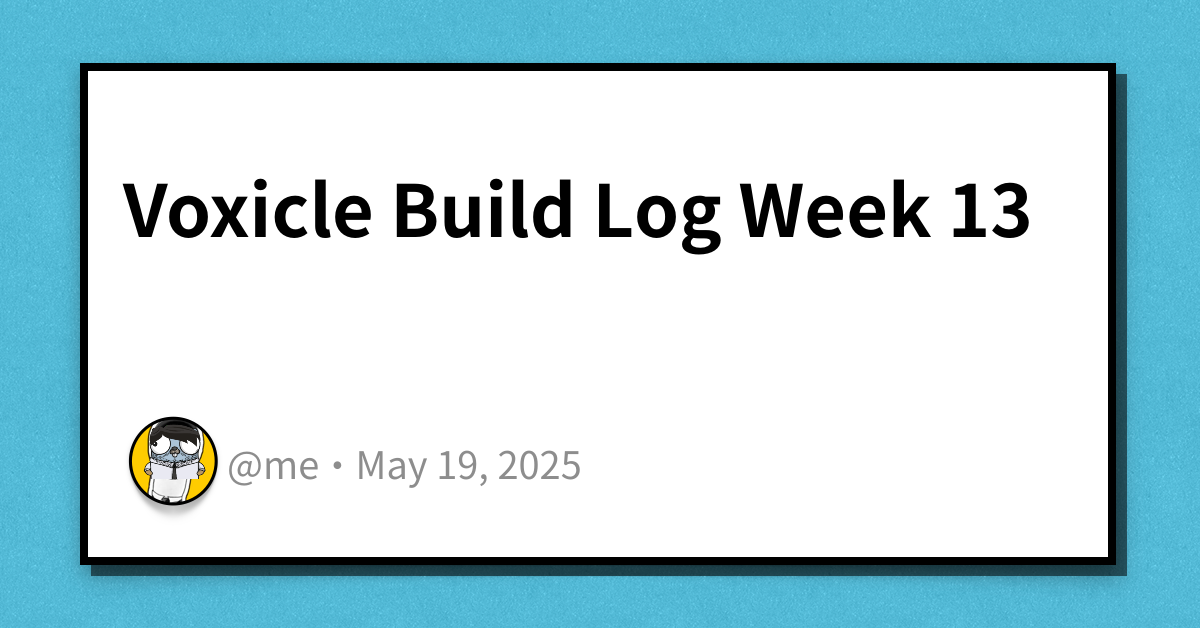
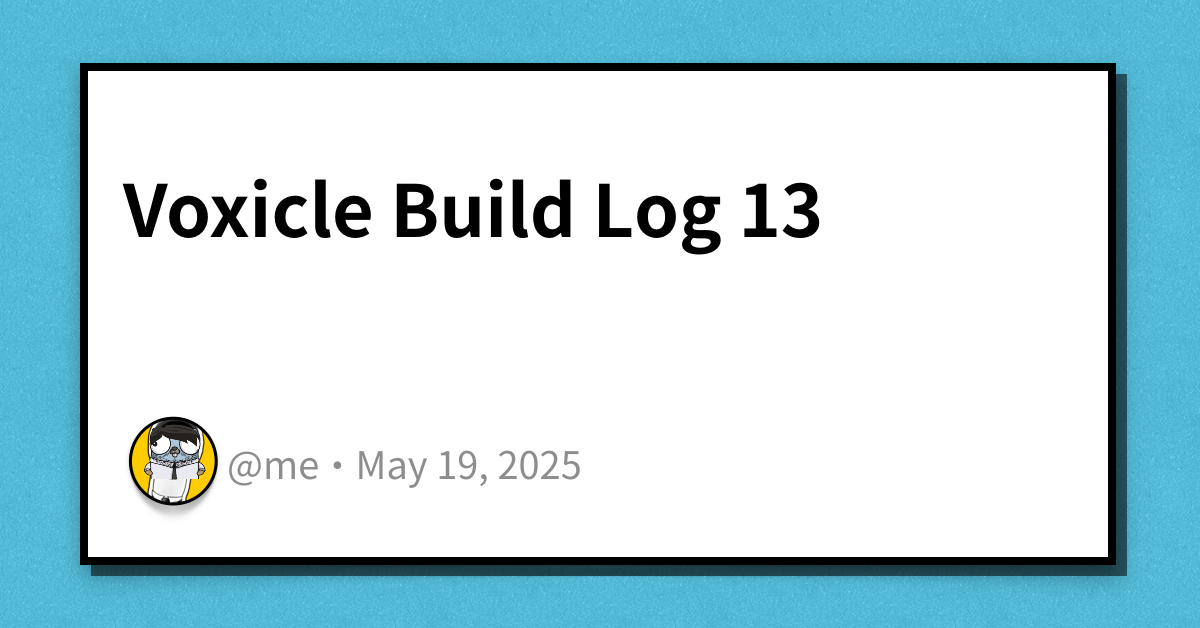
voxicle: week 13

Changed region(s): [[0.6167, 0.2723, 0.8633, 0.3933]]

diff --git a/content/posts/2025-05-19-voxicle-build-log-week-13/index.md b/content/posts/2025-05-19-voxicle-build-log-week-13/index.md
@@ -1,5 +1,5 @@
 ---
-title: Voxicle Build Log Week 13
+title: Voxicle Build Log 13
 date: 2025-05-19
 canonicalURL: https://haseebmajid.dev/posts/2025-05-19-voxicle-build-log-week-13
 tags:
@@ -13,11 +13,14 @@ cover:
   image: images/cover.png
 ---
 
-## ⏮ Last Weeks Objectives
+I will stop making these weekly I think and produce them when there is actual stuff to share, as not make them
+stale and boring. Some times they may end up weekly, depending on how much progress I am making.
 
-- Better error modals (fixed)
-- Start working on public page
-- Multi tenant sub domains
+## ⏮ Previous Build Log Objectives
+
+- ✅ Better error modals (fixed)
+- ✅ Start working on public page
+- ✅ Multi tenant sub domains
   - i.e. org1.voxicle.app
 
 ## 🛠 What I Worked On
@@ -82,6 +85,11 @@ but then also vote for it anonymously or if you are logged in the vote counts as
 Part of the public page is allowing the app to handle subdomains i.e. `org1.voxicle.app/public/feedback` to show
 the public feedback page.
 
+## Refactored Schema
+
+Remove organization_id and replaced with slug as this is already unique and means we have to do fewer looks up to the DB.
+Involved a long migration script and updating tests and some code as well.
+
 ## ✅ Wins
 
 - Error modal fixed
@@ -89,11 +97,16 @@ the public feedback page.
 
 ## ⚠ Challenges
 
+- Not understanding why `hx-swap-oob` wouldn't work with `HX-Retarget`.
+
 ## 💡 What I Learned
 
 - (remembered) HTMX only swaps by default on 200 HTTP Status code
   - `<meta name="htmx-config" content='{"responseHandling": [{"code":"...", "swap": true}]}'/>`
 - `hx-swap-oob` used for other changes first container is replaced, we can use `hx-retarget`
 
-## ⏭ Next Weeks Objectives
+## ⏭ Next Build Log Objectives
 
+- Public page for feedback
+  - private and public feedbacks
+  - allow anonymous voting
